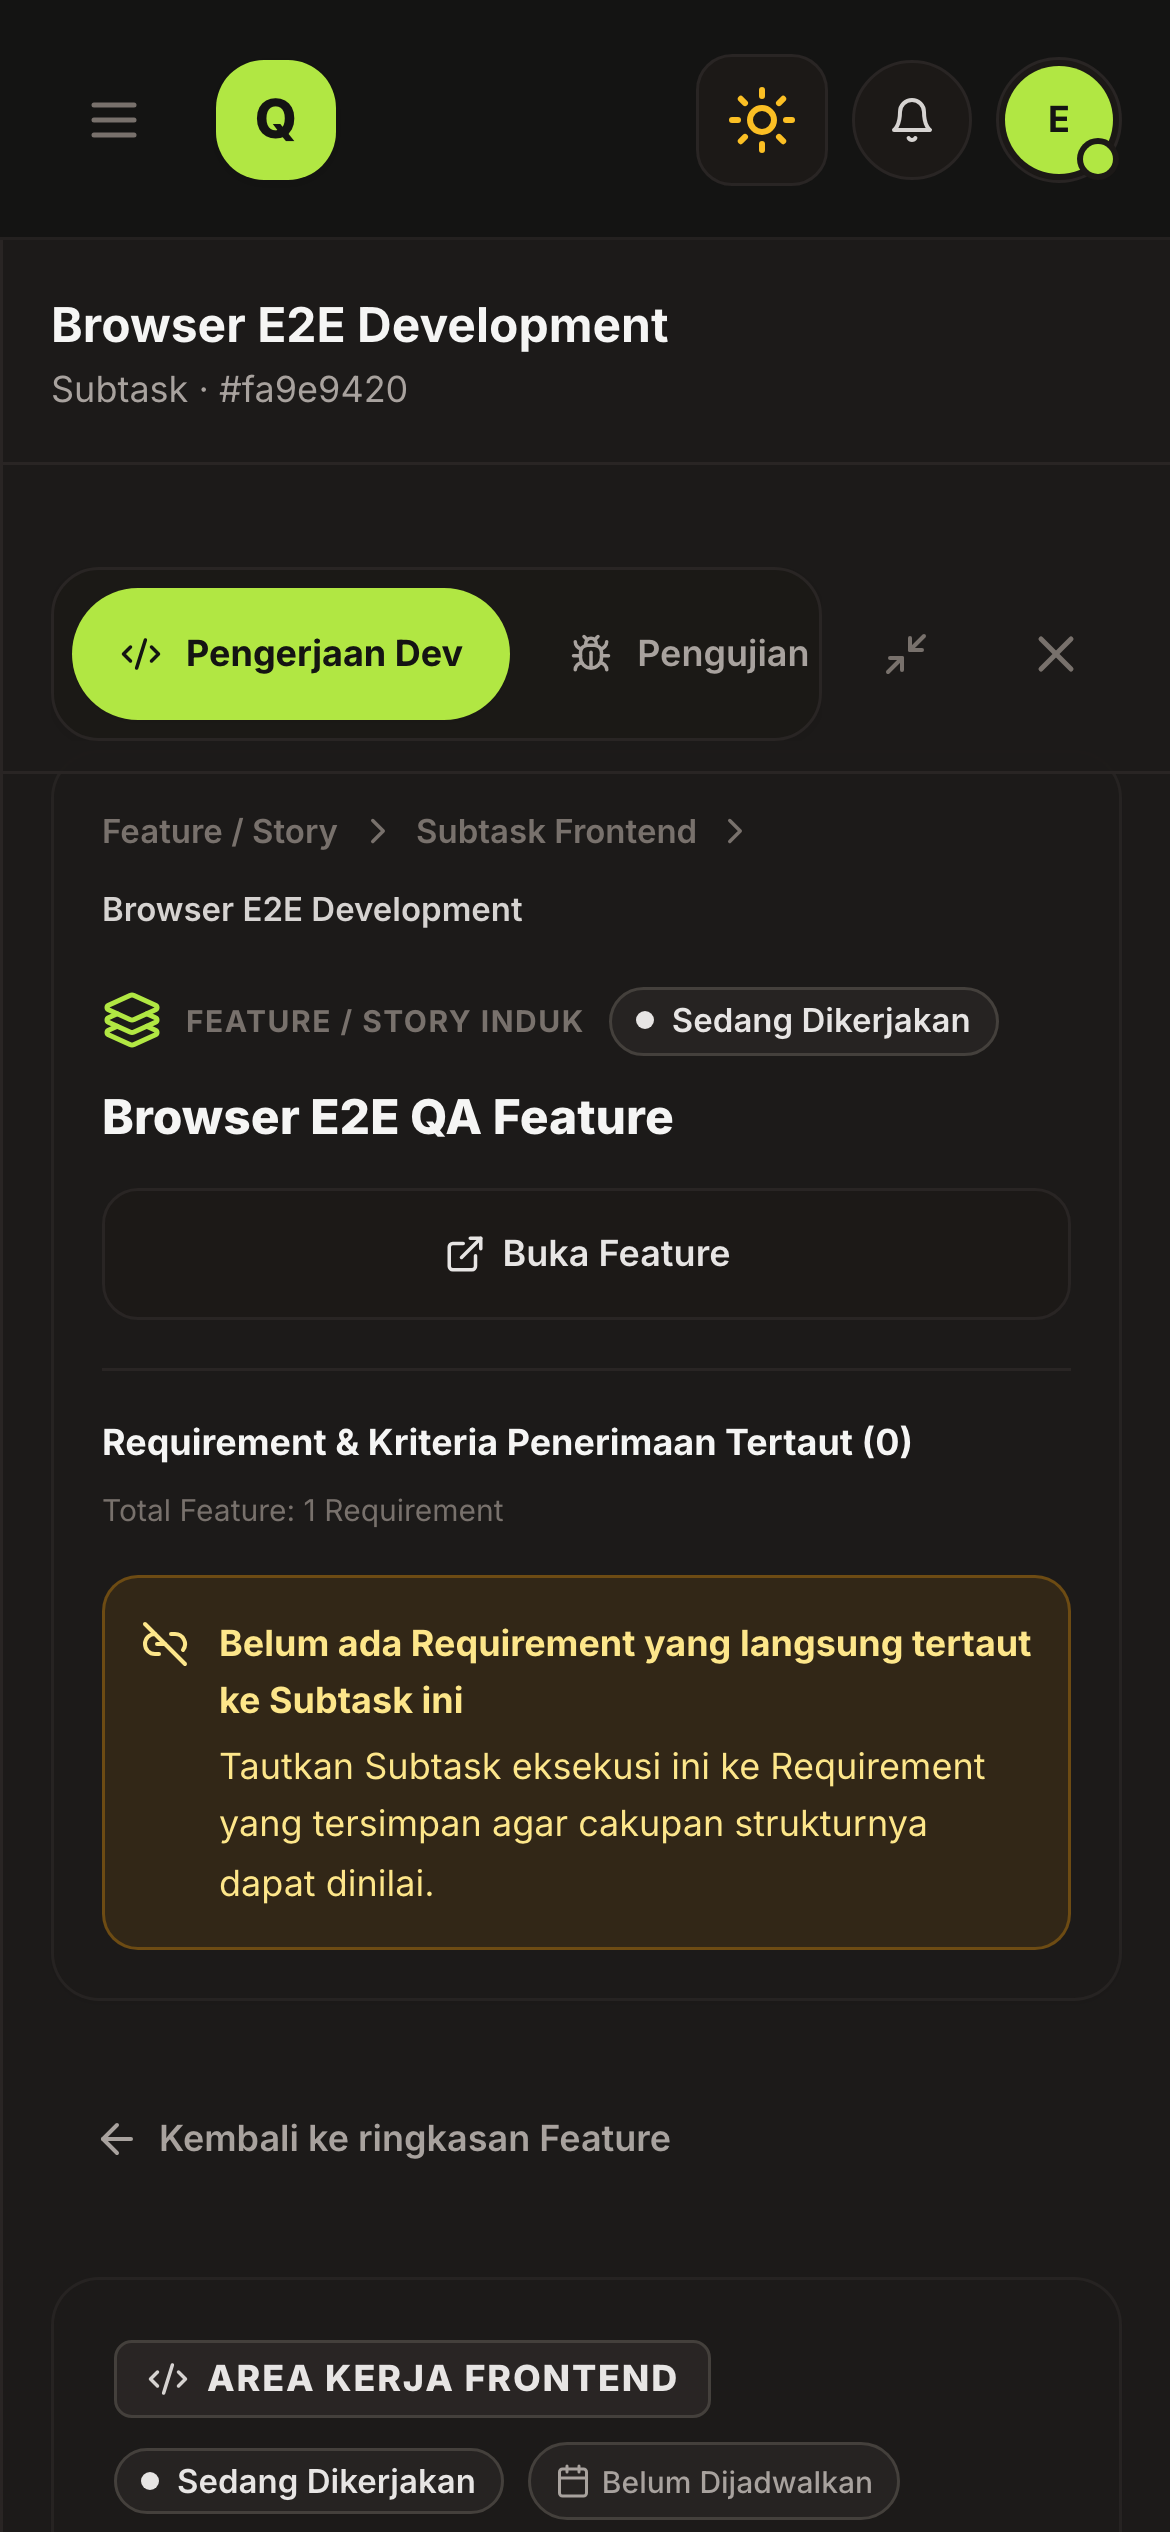
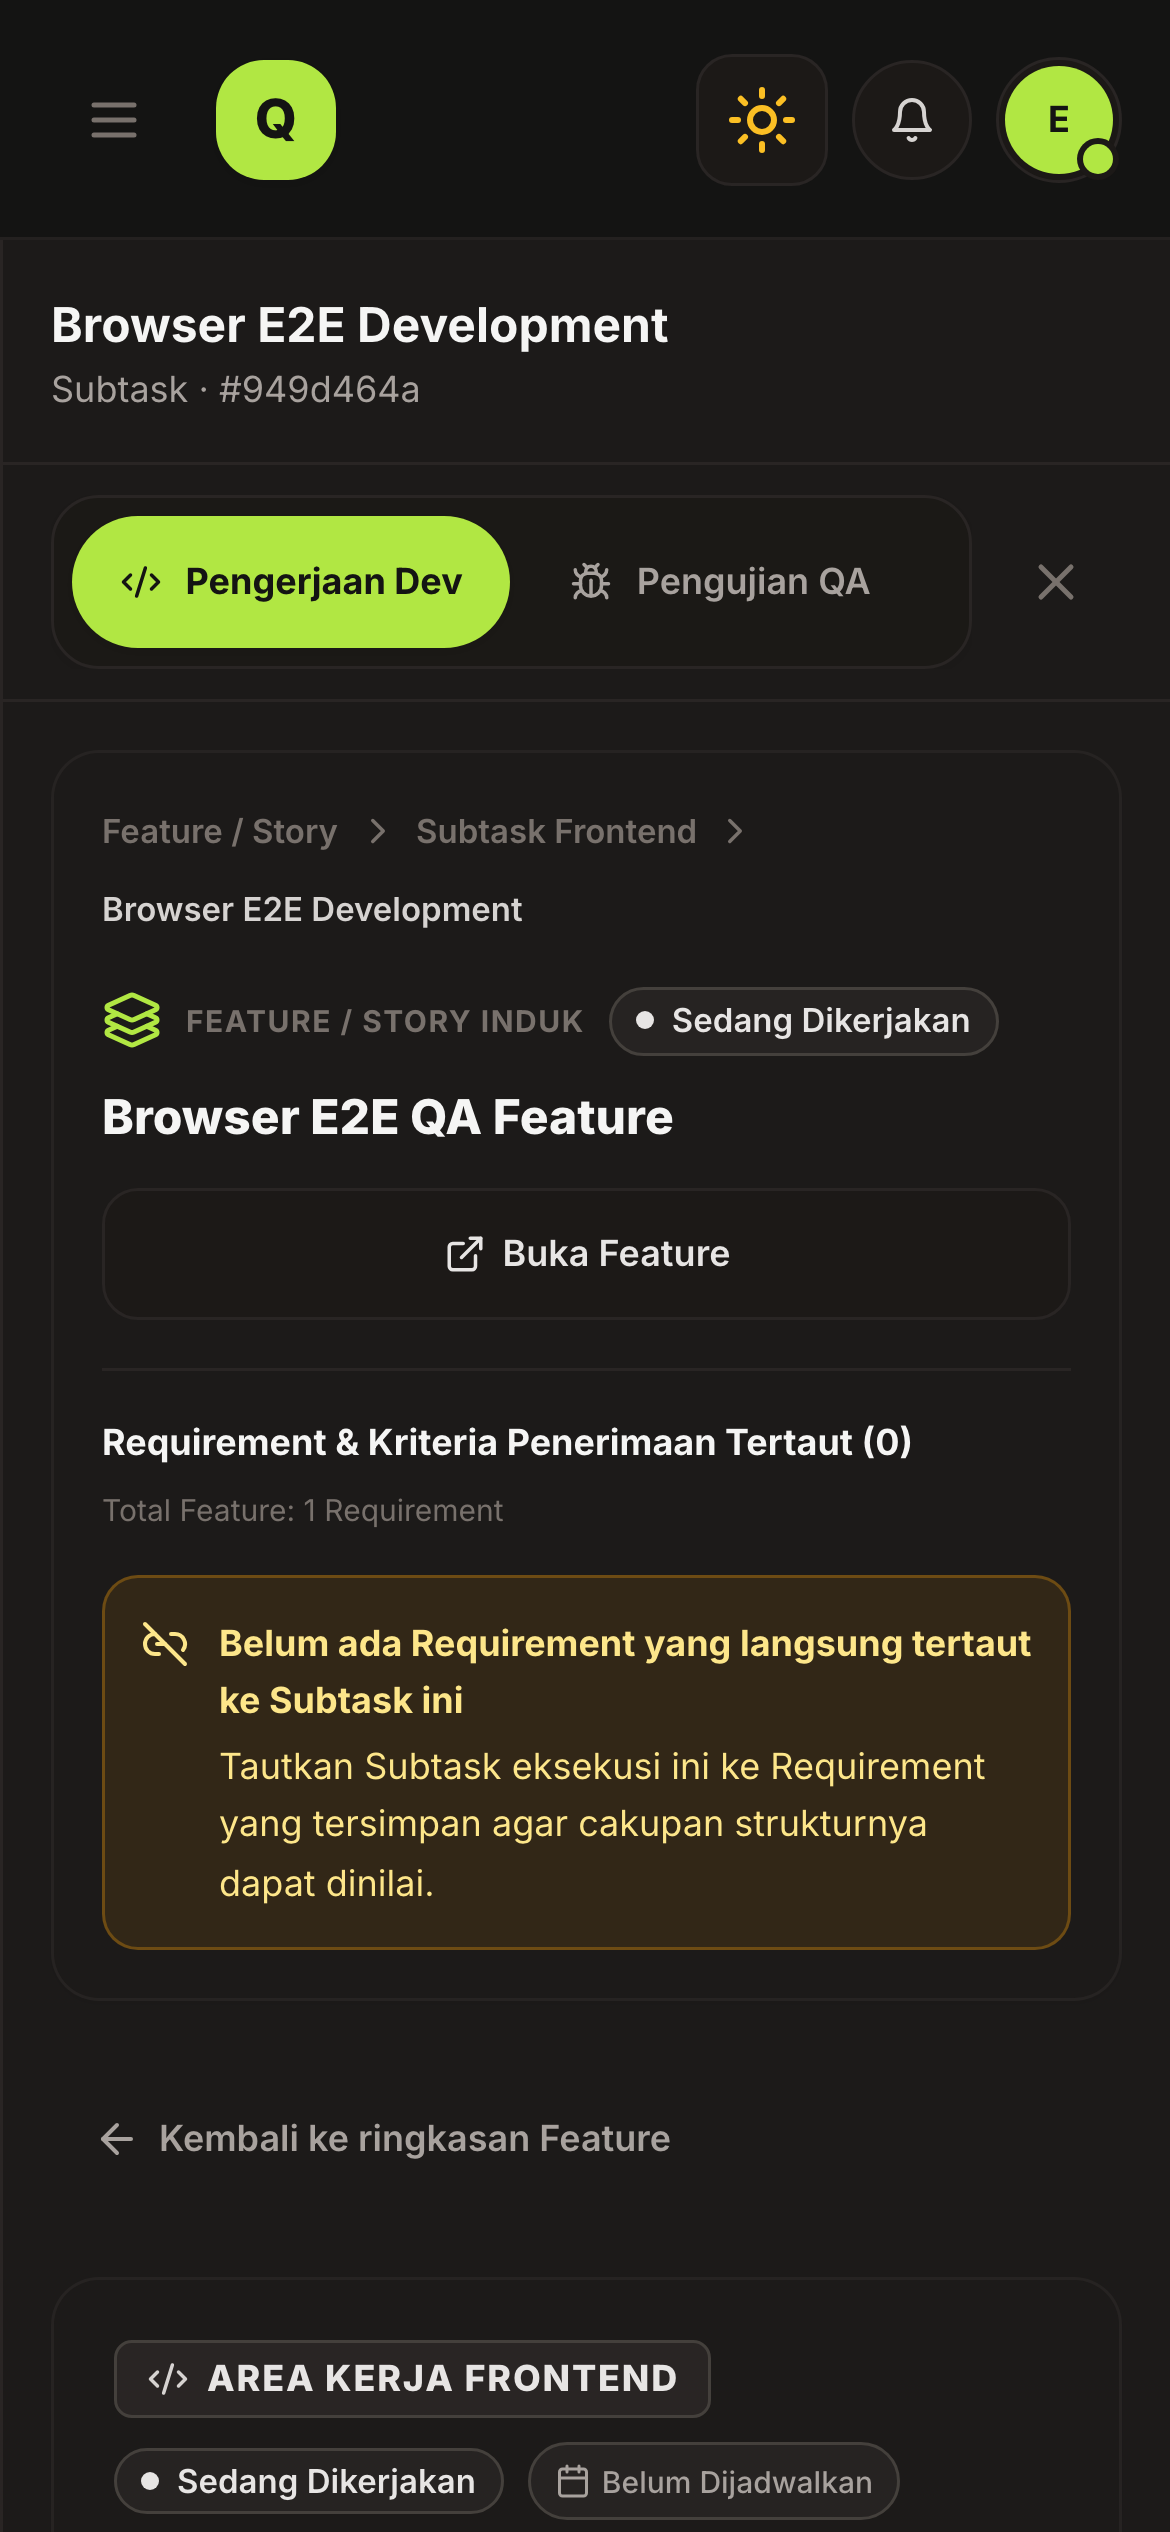
fix(drawer): polish sticky toolbar margin, mobile header, and modal button contrast

diff --git a/apps/web/src/components/ui/molecules/Drawer.tsx b/apps/web/src/components/ui/molecules/Drawer.tsx
@@ -220,16 +220,14 @@ export const Drawer: React.FC<DrawerProps> = ({
           <section
             aria-label={`${title} content`}
             className={`flex-1 overflow-y-auto text-sm text-stone-600 dark:text-stone-300 transition-all duration-300 ${
-              isFullScreen ? 'w-full px-4 py-6 sm:px-8' : 'px-4 sm:px-6 py-6'
+              isFullScreen ? 'w-full px-4 pb-6 sm:px-8' : 'px-4 sm:px-6 pb-6'
             }`}
           >
             <div
               role="toolbar"
               aria-label={`${title} navigation and controls`}
               className={`sticky top-0 z-20 ${
-                isFullScreen
-                  ? '-mt-6 -mx-4 sm:-mx-8 px-4 sm:px-8'
-                  : '-mt-6 -mx-4 sm:-mx-6 px-4 sm:px-6'
+                isFullScreen ? '-mx-4 sm:-mx-8 px-4 sm:px-8' : '-mx-4 sm:-mx-6 px-4 sm:px-6'
               } mb-4 flex min-w-0 items-center gap-1.5 border-b border-stone-200/80 bg-white/95 py-2.5 shadow-2xs backdrop-blur-md dark:border-stone-800 dark:bg-[#1C1A19]/95`}
             >
               {toolbar && (
@@ -244,7 +242,7 @@ export const Drawer: React.FC<DrawerProps> = ({
                     label={isFullScreen ? 'Kembali ke tampilan normal' : 'Perluas ke halaman penuh'}
                     size="md"
                     variant="ghost"
-                    className="text-stone-500 hover:text-[#22201F] dark:text-stone-400 dark:hover:bg-stone-800 dark:hover:text-[#B1E743]"
+                    className="hidden text-stone-500 hover:text-[#22201F] dark:text-stone-400 dark:hover:bg-stone-800 dark:hover:text-[#B1E743] sm:inline-flex"
                   >
                     {isFullScreen ? (
                       <Minimize2 className="h-4 w-4" />

diff --git a/apps/web/e2e/specs/qa-role-isolation.spec.ts b/apps/web/e2e/specs/qa-role-isolation.spec.ts
@@ -482,9 +482,21 @@ test('QA Desk dialogs and mobile drawer screenshots', async ({ browser }, testIn
     path: 'docs/screenshots/workspace-drawer-qa-subtask-mobile.png',
   });
 
-  // Reset to desktop viewport for modal screenshots
+  // Reset to desktop viewport and capture scrolled QA drawer
   await qaPage.setViewportSize({ width: 1280, height: 800 });
+  await qaPage.evaluate(() => {
+    const drawer = document.querySelector('section[aria-label*="content"]');
+    if (drawer) drawer.scrollTop = 200;
+  });
   await qaPage.waitForTimeout(400);
+  await qaPage.screenshot({
+    path: 'docs/screenshots/workspace-drawer-qa-subtask-after.png',
+  });
+  await qaPage.evaluate(() => {
+    const drawer = document.querySelector('section[aria-label*="content"]');
+    if (drawer) drawer.scrollTop = 0;
+  });
+  await qaPage.waitForTimeout(200);
 
   // Switch to Tab 2: Test Case & Eksekusi
   await qaPage.getByRole('tab', { name: 'Test Case & Eksekusi' }).click();

diff --git a/apps/web/src/components/ui/organisms/myTasks/qaDesk/dialogs/RecordResultModal.tsx b/apps/web/src/components/ui/organisms/myTasks/qaDesk/dialogs/RecordResultModal.tsx
@@ -171,7 +171,7 @@ export const RecordResultModal: React.FC<RecordResultModalProps> = ({
             <button
               type="button"
               onClick={onAddEvidenceLinkInput}
-              className="inline-flex items-center gap-1 text-xs text-primary font-medium hover:underline"
+              className="inline-flex items-center gap-1 text-xs font-semibold text-stone-800 dark:text-[#B1E743] hover:underline"
             >
               <Plus className="w-3.5 h-3.5" />
               Tambah Tautan
